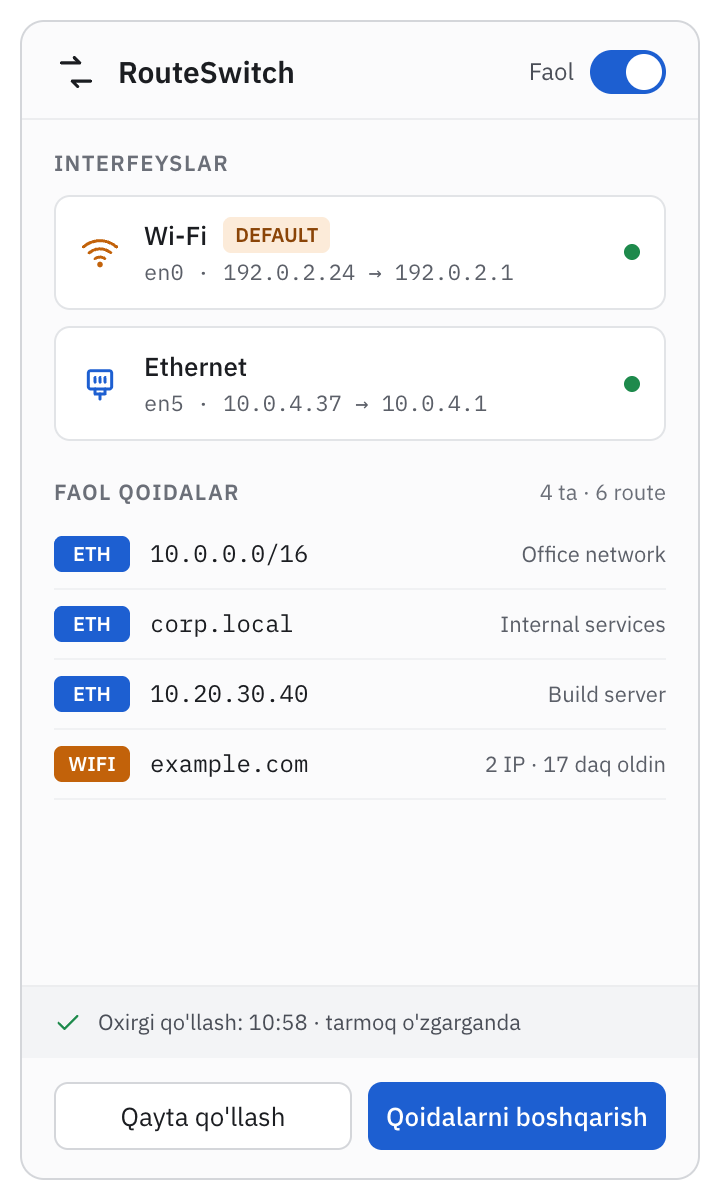
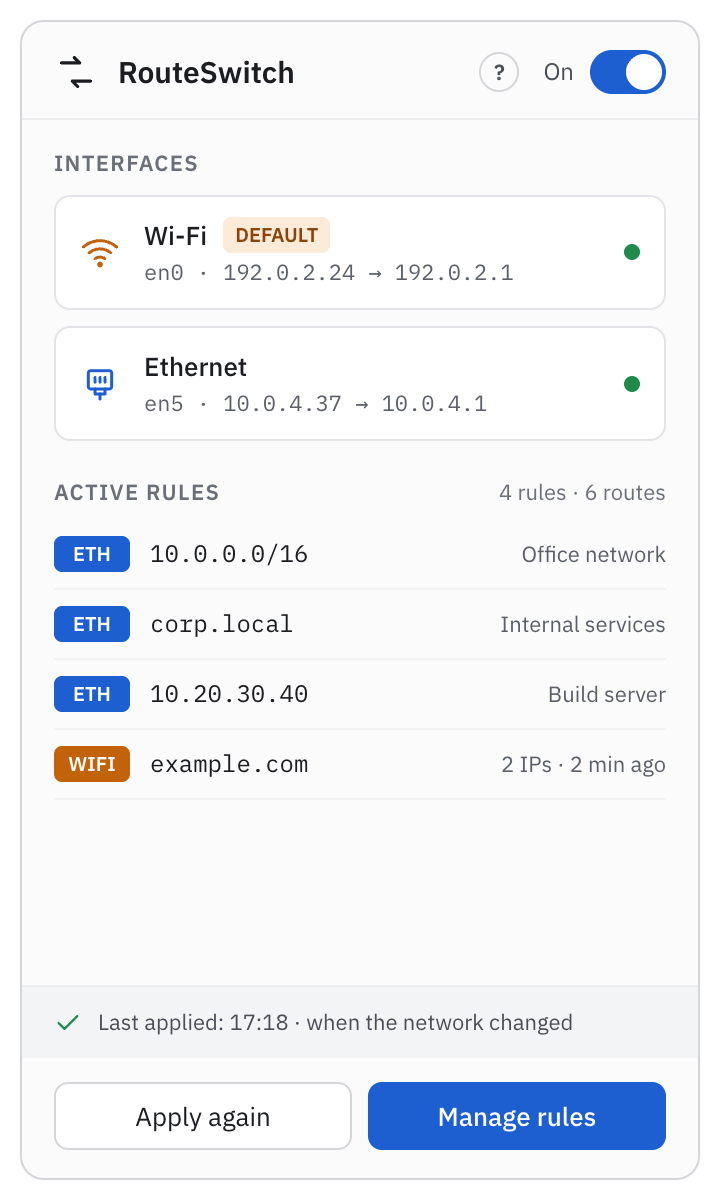
release: 0.2.0 — languages, IP wildcards, rules backup, Diagnostics, DNS warnings, Help
Version 0.2.0 across the packages and the helper (protocol 3: a 0.1 helper
shows as incompatible and is reinstalled from the app; rules are kept).
CHANGELOG, READMEs (EN/RU) with an "Updating from 0.1" section and new
screenshots from sample data. Help names the DEFAULT tag from the dictionary
and states the per-connection diagnostics limit.

diff --git a/packages/app/src/renderer/src/help/ru.ts b/packages/app/src/renderer/src/help/ru.ts
@@ -145,7 +145,7 @@ export const helpRu: HelpDoc = {
       blocks: [
         p(
           'Трафик, не попавший ни под одно правило, идёт по каналу по умолчанию. macOS берёт его из порядка сетевых служб: первая подключённая служба в списке. ',
-          'Метка DEFAULT на карточке интерфейса в строке меню показывает именно его.',
+          `Метка ${m.components.iface.defaultTag} на карточке интерфейса в строке меню показывает именно его.`,
         ),
         p(
           'Если Ethernet в списке выше Wi‑Fi, интернет тоже пойдёт через кабель. RouteSwitch не трогает маршрут по умолчанию; изменение порядка требует прав администратора, поэтому карточка ',
@@ -245,7 +245,7 @@ export const helpRu: HelpDoc = {
         ),
         sub('«Слишком много проверок»'),
         p(
-          'Helper выполняет до 10 запросов диагностики в минуту (каждый адрес имени, не покрытого правилом, — отдельный запрос). Подождите минуту и попробуйте снова.',
+          'Helper выполняет до 10 запросов диагностики в минуту на одно подключение (каждый адрес имени, не покрытого правилом, — отдельный запрос). Подождите минуту и попробуйте снова.',
         ),
         p(
           'Причины других ошибок видны в разделе ',

diff --git a/packages/app/src/renderer/src/help/uz.ts b/packages/app/src/renderer/src/help/uz.ts
@@ -146,7 +146,7 @@ export const helpUz: HelpDoc = {
       blocks: [
         p(
           "Hech bir qoidaga tushmagan trafik default kanaldan ketadi. macOS uni tarmoq xizmatlari tartibidan oladi: ro'yxatdagi birinchi ulangan xizmat. ",
-          "Menu bar'dagi interfeys kartasida DEFAULT belgisi shuni ko'rsatadi.",
+          `Menu bar'dagi interfeys kartasida ${m.components.iface.defaultTag} belgisi shuni ko'rsatadi.`,
         ),
         p(
           "Ethernet ro'yxatda Wi‑Fi'dan yuqori bo'lsa, internet ham kabel orqali ketadi. RouteSwitch default route'ga tegmaydi; tartibni o'zgartirish administrator huquqini talab qiladi, shuning uchun ",
@@ -245,7 +245,7 @@ export const helpUz: HelpDoc = {
         ),
         sub("«Tekshiruvlar juda ko'p»"),
         p(
-          "Helper daqiqasiga 10 tagacha diagnostika so'rovini bajaradi (qoidaga tushmagan nomning har manzili — alohida so'rov). Bir daqiqa kutib, qayta urinib ko'ring.",
+          "Helper har bir ulanish uchun daqiqasiga 10 tagacha diagnostika so'rovini bajaradi (qoidaga tushmagan nomning har manzili — alohida so'rov). Bir daqiqa kutib, qayta urinib ko'ring.",
         ),
         p(
           "Boshqa xatolar sababini ",

diff --git a/packages/app/src/renderer/src/help/en.ts b/packages/app/src/renderer/src/help/en.ts
@@ -145,7 +145,7 @@ export const helpEn: HelpDoc = {
       blocks: [
         p(
           'Traffic that no rule covers goes through the default route. macOS takes it from the network service order: the first connected service in the list. ',
-          'The DEFAULT tag on an interface card in the menu bar shows which one it is.',
+          `The ${m.components.iface.defaultTag} tag on an interface card in the menu bar shows which one it is.`,
         ),
         p(
           'If Ethernet is above Wi‑Fi in that list, the internet goes over the cable too. RouteSwitch never touches the default route, and changing the order needs administrator rights, so the ',
@@ -245,7 +245,7 @@ export const helpEn: HelpDoc = {
         ),
         sub('“Too many checks”'),
         p(
-          'The helper runs up to 10 diagnostic requests a minute (each address of a name no rule covers is a request of its own). Wait a minute and try again.',
+          'For each connection, the helper runs up to 10 diagnostic requests a minute (each address of a name no rule covers is a request of its own). Wait a minute and try again.',
         ),
         p(
           'For other errors, ',

diff --git a/packages/app/src/renderer/src/help/help.test.ts b/packages/app/src/renderer/src/help/help.test.ts
@@ -1,6 +1,6 @@
 import { describe, expect, it } from 'vitest';
 
-import { LOCALES } from '../../../i18n';
+import { LOCALES, MESSAGES } from '../../../i18n';
 import { HELP_DOCS, HELP_TOPICS, type HelpBlock, type HelpDoc, type HelpInline, type HelpTopic } from './index';
 import { helpUz } from './uz';
 
@@ -50,6 +50,8 @@ describe('the Help documents', () => {
       // Secure DNS in the browser, and the diagnostics limit of 10 a minute.
       expect(text).toMatch(/DNS.over.HTTPS/);
       expect(text).toMatch(/\b10\b/);
+      // The tag the menu bar shows on the default interface, in this language (ru: not "DEFAULT").
+      expect(text).toContain(`${MESSAGES[locale].components.iface.defaultTag} `);
     }
   });
 

diff --git a/tests/helper-app-socket.test.ts b/tests/helper-app-socket.test.ts
@@ -134,7 +134,7 @@ describe('app helper client <-> helper daemon over a real socket', () => {
       { timeout: 2000 },
     );
     await connected(h.client);
-    expect(h.client.snapshot()).toMatchObject({ status: { kind: 'connected', helperVersion: '0.1.0' }, config: { rules: [] }, configRevision: 0 });
+    expect(h.client.snapshot()).toMatchObject({ status: { kind: 'connected', helperVersion: '0.2.0' }, config: { rules: [] }, configRevision: 0 });
 
     const states: number[] = [];
     h.client.onState((state) => states.push(state.seq));

diff --git a/packages/helper/src/main.ts b/packages/helper/src/main.ts
@@ -73,7 +73,7 @@ import { UNINSTALL_REPLY_TIMEOUT_MS, requestUninstall, type UninstallReply } fro
  */
 
 /** Version of the helper, reported in `EngineState.helperVersion`. Kept equal to `package.json` by a test. */
-export const HELPER_VERSION = '0.1.0';
+export const HELPER_VERSION = '0.2.0';
 
 export const EXIT_CODES = {
   ok: 0,

diff --git a/README.md b/README.md
@@ -31,7 +31,10 @@ network changes.
   &nbsp;
   <img src="docs/rules-window.png" width="520" alt="Rules window">
 </p>
-<p align="center"><sub>Screenshots with sample data. The interface is in Uzbek.</sub></p>
+<p align="center">
+  <img src="docs/diagnostics.png" width="520" alt="Diagnostics: which rule matches corp.local and the route each address takes">
+</p>
+<p align="center"><sub>Screenshots with sample data. The interface is available in English, Russian and Uzbek.</sub></p>
 
 ## Download
 
@@ -63,27 +66,38 @@ to install the helper.
    `xattr -dr com.apple.quarantine /Applications/RouteSwitch.app` once.
    A copy you built yourself is not quarantined and opens directly.
 3. RouteSwitch lives in the menu bar (no Dock icon). It shows
-   "Helper o'rnatilmagan" (*helper not installed*); click
-   **Helper'ni o'rnatish** (*install helper*) and enter the administrator
-   password once. The helper daemon then runs as root under `launchd` and
-   keeps your routes even when the app is closed.
+   "Helper is not installed"; click **Install the helper** and enter the
+   administrator password once. The helper daemon then runs as root under
+   `launchd` and keeps your routes even when the app is closed.
+
+The app starts in the language of macOS (English, Russian, otherwise Uzbek);
+change it in **Settings → Til / Язык / Language**.
+
+### Updating from 0.1
+
+Replace the app in Applications with the new one and open it. The 0.1 helper
+speaks an older protocol, so RouteSwitch reports "Helper version does not
+match": click **Reinstall the helper** and enter the administrator password.
+Your rules are kept.
 
 ## Quick start
 
 Route an office network and its internal domain through Ethernet, leave the
 rest on Wi‑Fi:
 
-1. Click the menu bar icon, then **Qoidalarni boshqarish** (*manage rules*).
-2. Click **Qoida qo'shish** (*add rule*):
-   - type **Subnet**, address `10.0.0.0/8`, interface **Ethernet**;
-   - optionally **Sinab ko'rish** (*test*) to see which interface the
-     address uses right now;
-   - **Saqlash va qo'llash** (*save and apply*).
-3. Add a second rule: type **Domen** (*domain*), address `corp.local`,
-   interface **Ethernet**. If internal names are only known to the office DNS,
-   tick **Ichki DNS server orqali resolve qilish** (*resolve through an
-   internal DNS server*) and enter its address, e.g. `10.0.0.53`.
-4. Check it from Terminal:
+1. Click the menu bar icon, then **Manage rules**.
+2. Click **Add rule**:
+   - type **Subnet**, address `10.0.0.0/8` (or the wildcard `10.*.*.*`),
+     interface **Ethernet**;
+   - optionally **Test** to see which interface the address uses right now;
+   - **Save and apply**.
+3. Add a second rule: type **Domain**, address `corp.local`, interface
+   **Ethernet**. If internal names are only known to the office DNS, tick
+   **Resolve through an internal DNS server** and enter its address, e.g.
+   `10.0.0.53`.
+4. Check it in **Diagnostics** (rules window): enter `corp.local` or an
+   address to see the matching rule and the route each address takes. Or from
+   Terminal:
 
    ```bash
    route -n get 10.1.2.3     # interface: the Ethernet device (e.g. en5)
@@ -92,24 +106,25 @@ rest on Wi‑Fi:
 
 Rules are re-applied automatically when the cable, the Wi‑Fi network or sleep
 state changes. Use **Export** in the rules window to save them as JSON and
-**Import** to load them on another Mac.
+**Import** to load them on another Mac. **Help** in the rules window explains
+every part of the app.
 
 ## Uninstall
 
-> [!WARNING]
-> **Removing the helper also deletes your rules** — they are stored by the
-> helper. Use **Export** in the rules window first if you want to keep them.
-
-1. **Sozlamalar → Helper'ni o'chirish** (*Settings → remove helper*) removes
-   the helper's routes and resolver files, the daemon and its files, including
-   the rules.
+1. **Settings → Remove the helper** removes the helper's routes and resolver
+   files, the daemon and its files, including the rules it stores. The app
+   keeps a backup of your rules and offers to restore them if you install the
+   helper again.
 2. Quit RouteSwitch and move it from Applications to the Trash.
+3. To remove the backup and the app settings too, delete
+   `~/Library/Application Support/RouteSwitch`.
 
 ## What it does
 
 - **Three kinds of rules**
   - **IP** — a single host, e.g. `10.20.30.40`
-  - **Subnet** — an IPv4 CIDR block, e.g. `10.0.0.0/8`
+  - **Subnet** — an IPv4 CIDR block, e.g. `10.0.0.0/8`, or a wildcard such as
+    `10.*.*.*` (saved as `10.0.0.0/8`)
   - **Domain** — e.g. `corp.local`; its A records are resolved and applied as
     IP routes, then refreshed periodically
 - **Per-rule interface** — each rule is bound to Ethernet or Wi‑Fi.
@@ -122,9 +137,16 @@ state changes. Use **Export** in the rules window to save them as JSON and
   helper, so quitting the UI does not drop your routes.
 - **Menu bar UI** — a compact status window, a rules manager, and an "add rule"
   form with a "test" button that shows which interface a target would use.
-- **Config import / export** as JSON.
+- **Diagnostics** — for a host, IP or URL: the matching rule and why, the
+  route each address really takes compared with the expected one, and the DNS
+  server in use. Read-only.
+- **DNS server warnings** — when an internal DNS server is reached through the
+  wrong interface, with a one-click rule suggestion.
+- **Config import / export** as JSON, and an automatic **backup of your rules**
+  that can be restored after reinstalling the helper.
 - **Journal and settings** — an event log, launch at login, choice of the
   Ethernet adapter, and the Wi‑Fi service order.
+- **English, Russian and Uzbek** UI, with built-in **Help** in each.
 
 ## How it works
 
@@ -293,11 +315,18 @@ Builds are signed ad hoc. To distribute to other Macs later:
   removal, import/export, journal and settings, launch at login.
 - Packaging — one `.dmg` per architecture, uninstall script.
 
-**Next:** IPv6 routes (planned for 0.2).
+**Done in 0.2.0:** English, Russian and Uzbek UI; IP wildcards; rules backup
+and restore; Diagnostics; DNS server warnings; in-app Help.
 
-**Not planned in 0.1:**
+**Planned:**
 
-- Wildcard domains (`*.example.com`) — would need a DNS proxy
+- **0.3.0** — wildcard domains (`*.example.com`) through a local DNS proxy.
+- **0.4.0** — rule profiles, notifications, keeping Wi‑Fi first as the default
+  route, and a command-line tool.
+
+**Not planned:**
+
+- IPv6 routes
 - VPN (`utun`) interfaces
 - Per-application routing — would need a Network Extension
 - Mac App Store distribution

diff --git a/CHANGELOG.md b/CHANGELOG.md
@@ -5,6 +5,52 @@ All notable changes to RouteSwitch are documented in this file.
 The format is based on [Keep a Changelog](https://keepachangelog.com/en/1.1.0/),
 and this project adheres to [Semantic Versioning](https://semver.org/spec/v2.0.0.html).
 
+## [0.2.0] — 2026-10-15
+
+### Added
+
+- **Three languages**: Uzbek, Russian and English. On the first launch the app
+  follows the macOS language (Russian or English, otherwise Uzbek); change it
+  in **Settings → Til / Язык / Language** — open windows switch at once. The
+  helper's own journal entries stay in English.
+- **IP wildcards**: `10.*.*.*` or `10.20.*.*` in the IP or subnet field is
+  saved as the matching subnet (`10.0.0.0/8`, `10.20.0.0/16`); the form shows
+  the result before saving. `*` is accepted only in the trailing octets.
+- **Rules backup and restore**: the app keeps the last copy of your rules in
+  your user folder (`~/Library/Application Support/RouteSwitch/rules-backup.json`,
+  readable only by you). When the helper has no rules but a backup exists (for
+  example after removing and reinstalling the helper), the menu bar and the
+  rules window offer to restore it; nothing is applied until you review and
+  confirm. Settings show the backup and can restore or delete it.
+- **Diagnostics** section in the rules window: enter a host, IP or URL and see
+  which rule matches and why, the route each address actually takes (interface
+  and gateway) against the expected one, the DNS server and resolver file in
+  use, and a short hint when something does not match. Read-only — it changes
+  nothing. Names no rule covers are resolved by the app with your user rights.
+- **DNS server warnings**: when an interface's DNS server (or a rule's DNS
+  server) is reached through the other interface, the menu bar and the rules
+  window show a warning with a one-click "add rule" suggestion that pre-fills
+  the Add Rule form (saved only when you click save).
+- **In-app Help** (Справка / Yordam) in all three languages: getting started,
+  rule types, which rule wins, what "default" means and how to put Wi‑Fi
+  first, backup, diagnostics, common problems and uninstalling.
+
+### Changed
+
+- The IPC protocol is now version 3. **A 0.1 helper is reported as
+  incompatible**: click **Reinstall the helper** once after updating the app
+  (your rules are kept — the installer leaves the helper's config in place).
+
+### Known limitations
+
+- The builds are signed ad hoc, **not with a Developer ID and not notarized**:
+  macOS asks for confirmation on the first launch (see README → Download).
+- Removing the helper deletes the rules it stores, but the app's backup stays:
+  after reinstalling, RouteSwitch offers to restore them. To remove everything,
+  also delete `~/Library/Application Support/RouteSwitch`.
+- Not supported in 0.2: wildcard domains (`*.example.com`, planned for 0.3),
+  IPv6 routes, VPN (`utun`) interfaces, per-application routing.
+
 ## [0.1.0] — 2026-10-15
 
 The first public release.
@@ -52,4 +98,5 @@ The first public release.
   (`utun`) interfaces, per-application routing.
 - The user interface is in Uzbek only.
 
+[0.2.0]: https://github.com/jahongirsaidiy-max/route-switch/releases/tag/v0.2.0
 [0.1.0]: https://github.com/jahongirsaidiy-max/route-switch/releases/tag/v0.1.0
